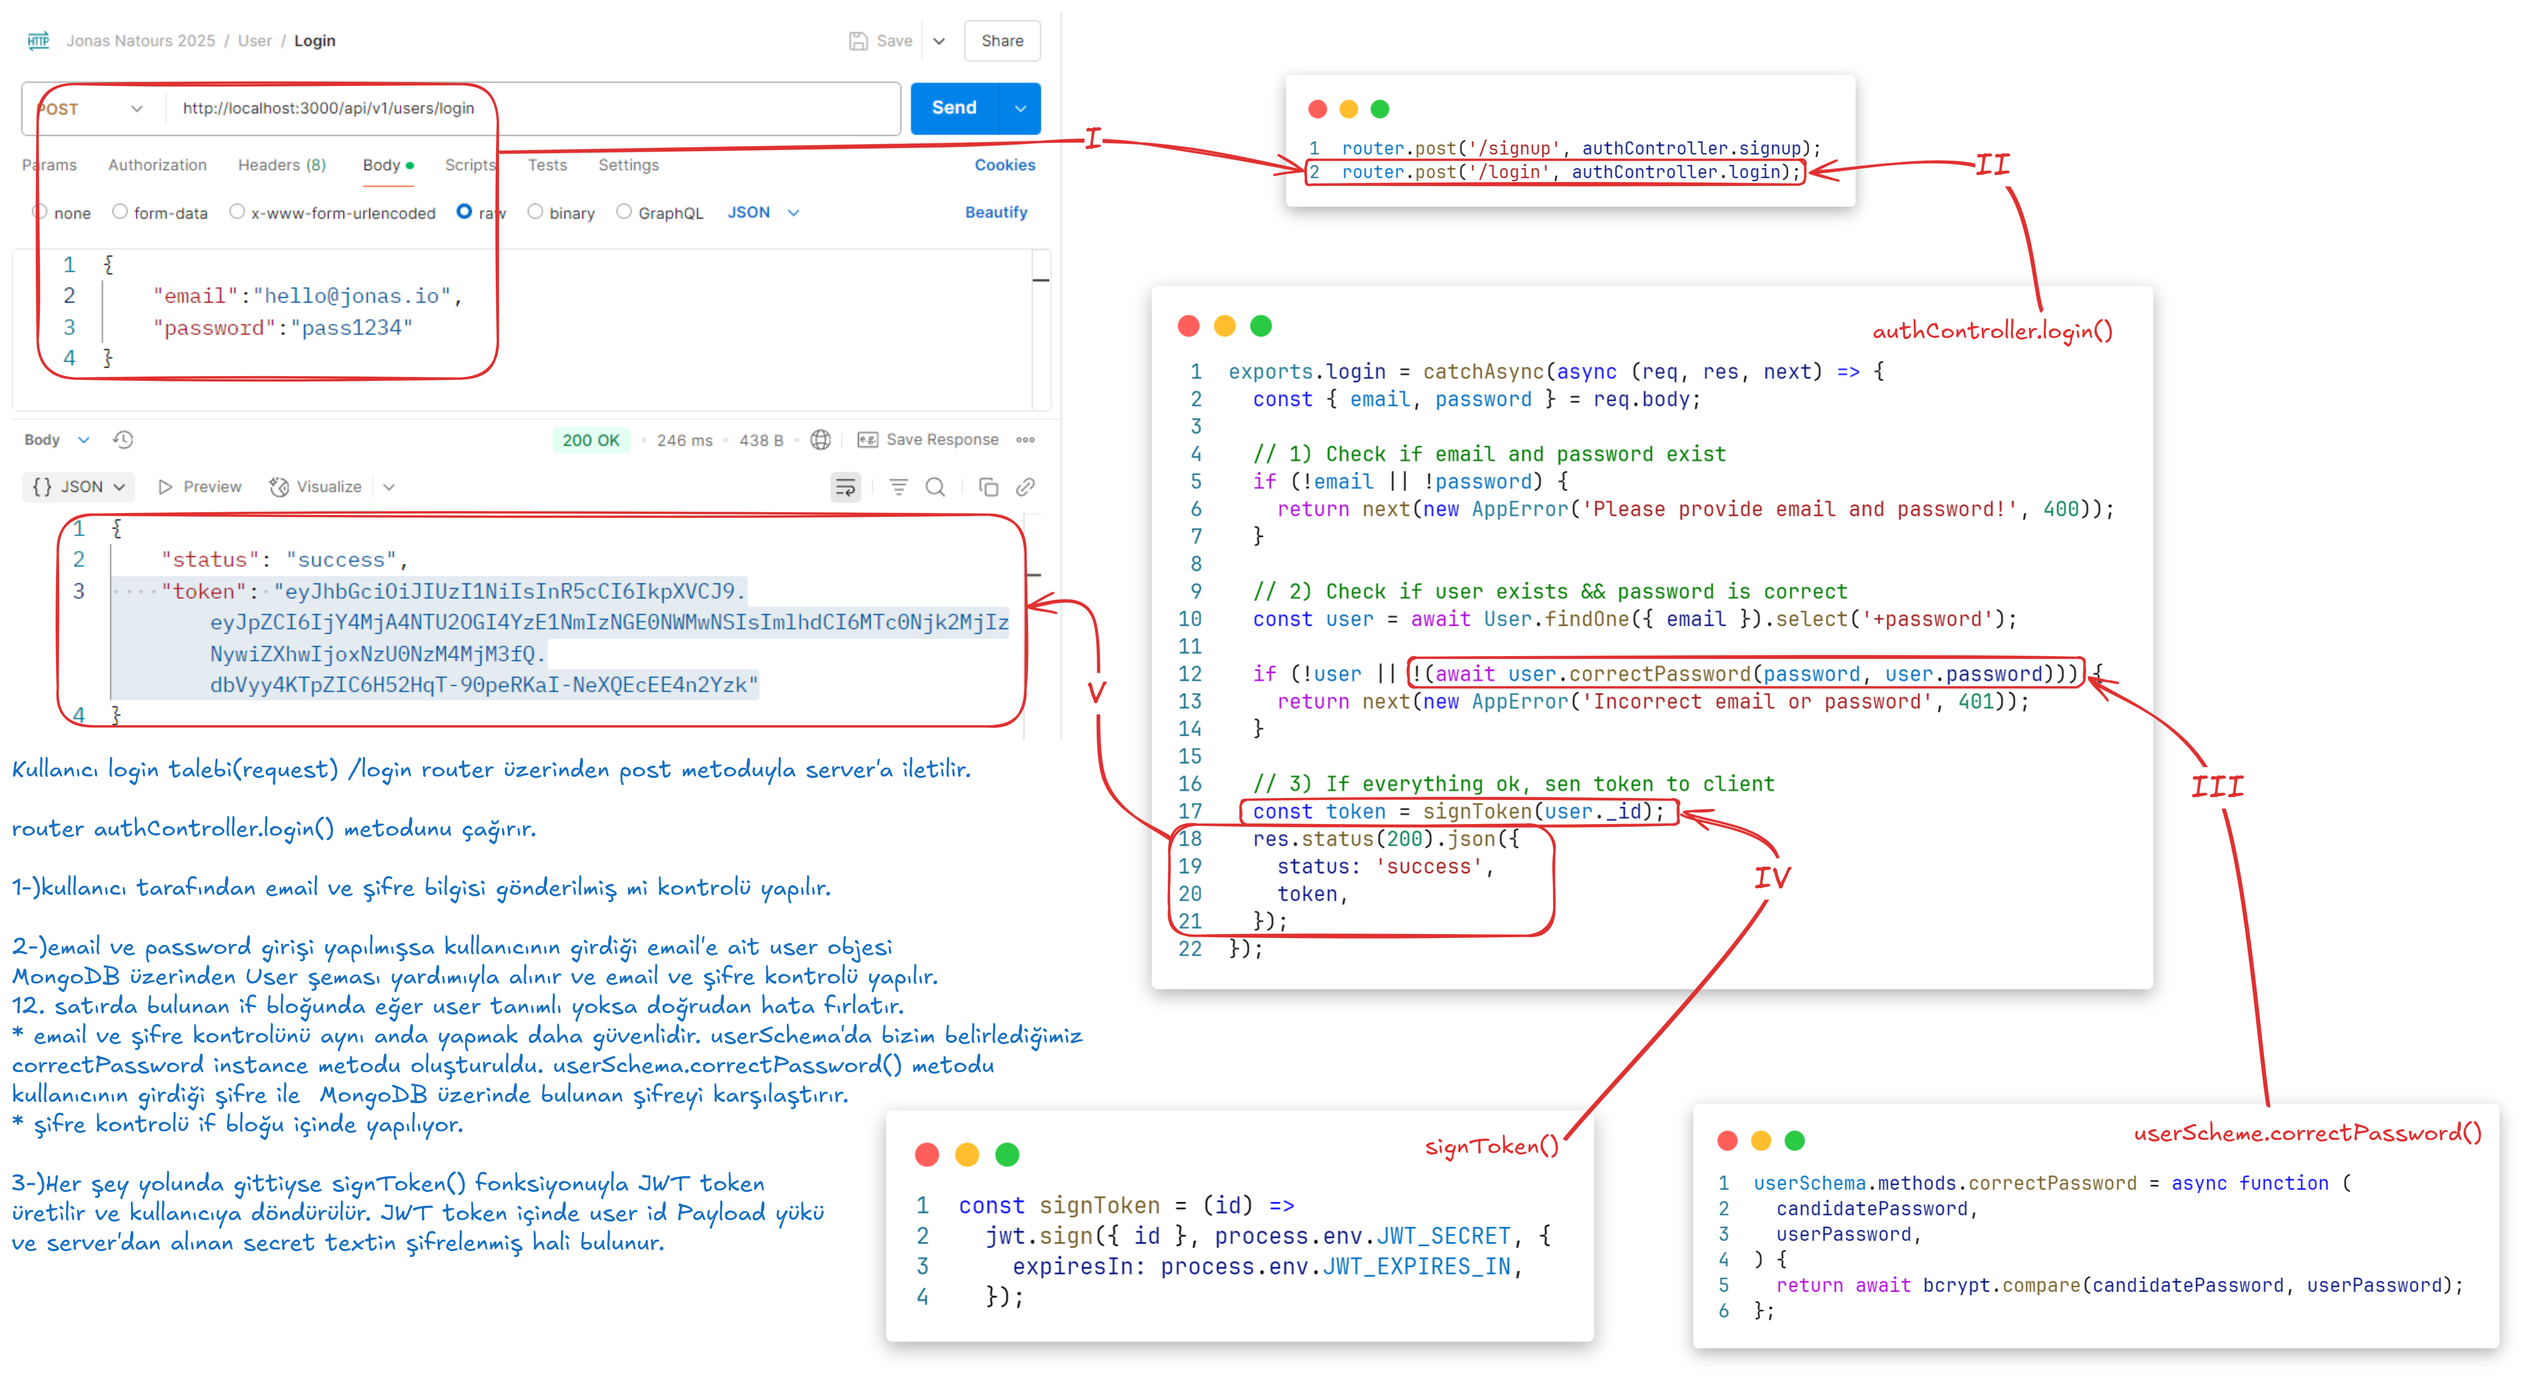
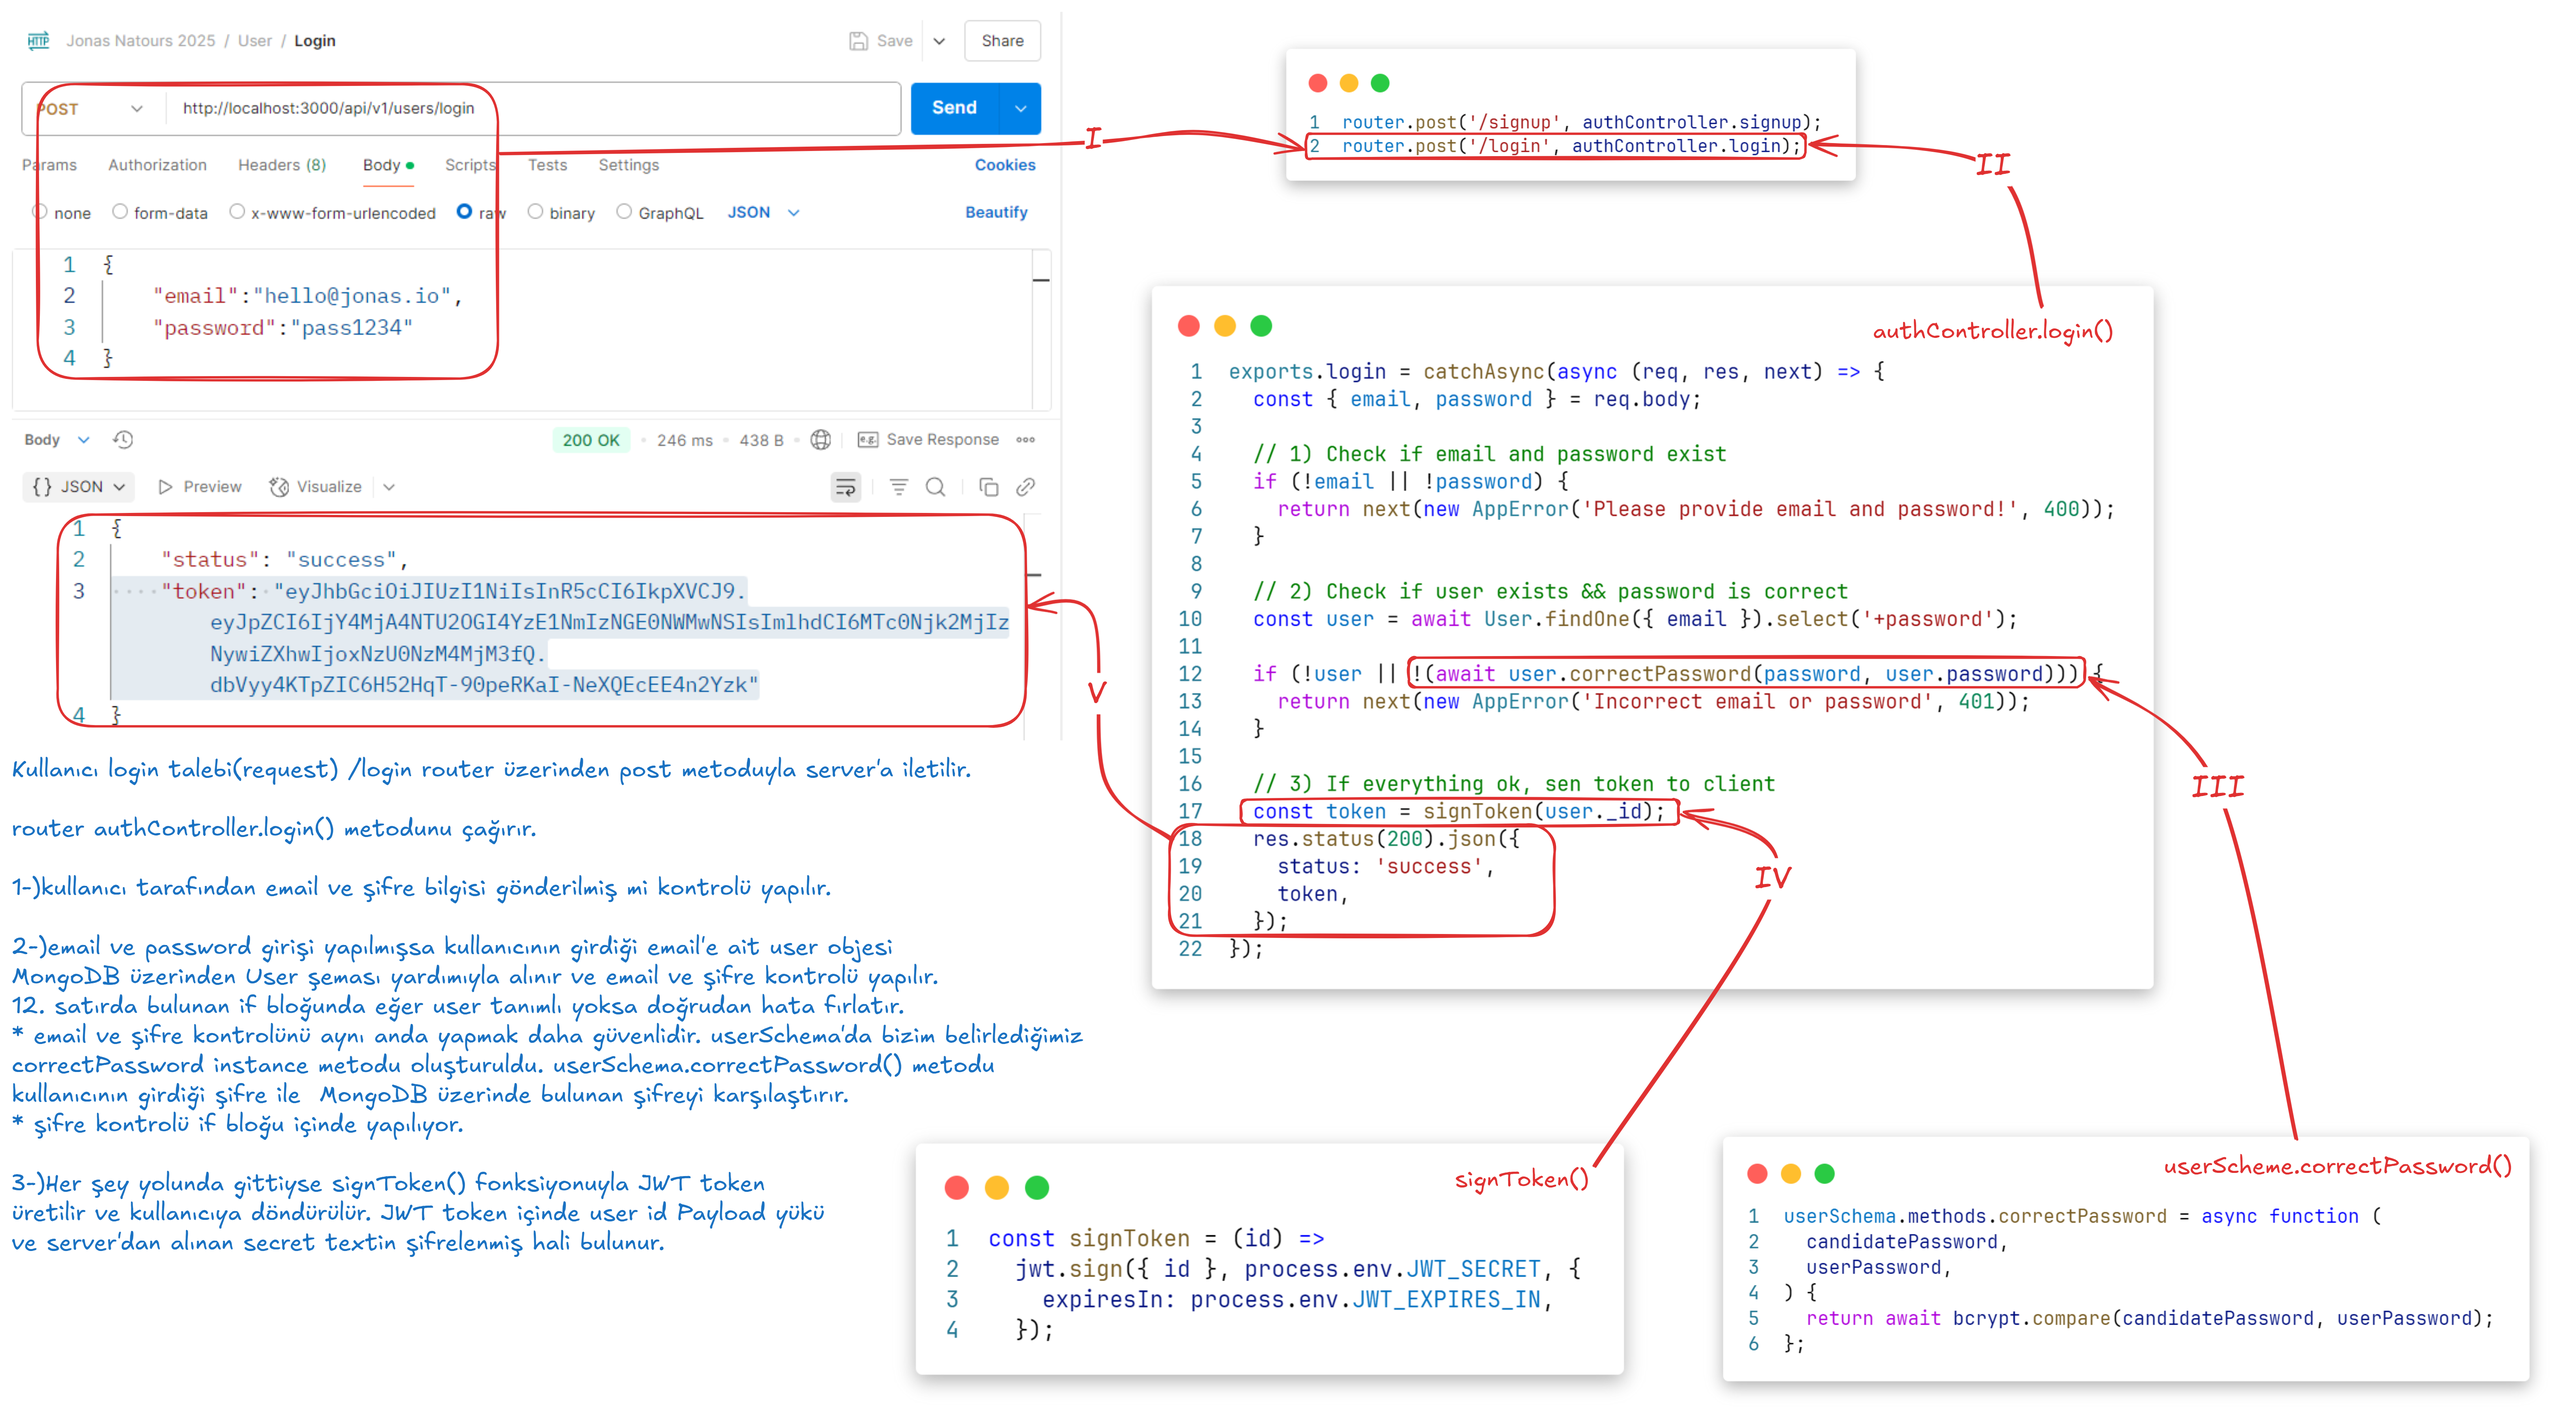
Authentication,Authorization and Security:130 Logging in Users Notes 2

diff --git a/controllers/authController.js b/controllers/authController.js
@@ -56,19 +56,3 @@ exports.login = catchAsync(async (req, res, next) => {
     token,
   });
 });
-
-/** Not çıkarılacak dosyalar
- * authController.js
- * userModel.js
- * userRoutes.js
- */
-
-/**
- *"token": "eyJhbGciOiJIUzI1NiIsInR5cCI6IkpXVCJ9.
- eyJpZCI6IjY4MjA4NTU2OGI4YzE1NmIzNGE0NWMwNSIsImlhdCI6MTc0Njk2MjIzMSwiZXhwIjoxNzU0NzM4MjMxfQ.
- 4FVvaCcdCnUdChwIQ41WYxaDHW9Yv4hbgoyCbW2zX98"
- *
- *"token": "eyJhbGciOiJIUzI1NiIsInR5cCI6IkpXVCJ9.
- eyJpZCI6IjY4MjA4NTU2OGI4YzE1NmIzNGE0NWMwNSIsImlhdCI6MTc0Njk2MjIzNywiZXhwIjoxNzU0NzM4MjM3fQ.
- dbVyy4KTpZIC6H52HqT-90peRKaI-NeXQEcEE4n2Yzk"
- */

diff --git a/readme.md b/readme.md
@@ -1,5 +1,4 @@
 Authentication,Authorization and Security:Logging in Users
-04 Auth and Security Login
 
 # dependencies
 
